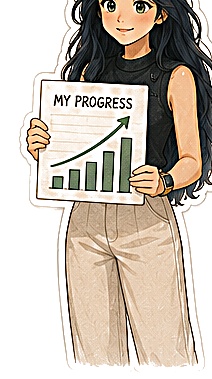
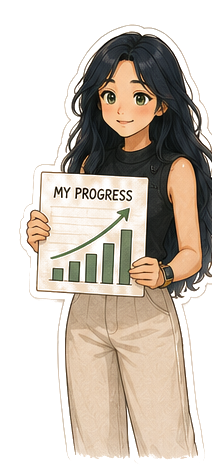
Polish 7-Day card sticker positioning per day, without changing the design
- Global fix: all card content (badge, title, progress bar, remaining
  time) now renders in its own stacking context above the character
  sticker (.day-card > *:not(.day-card-sticker) gets z-index:10 vs the
  sticker's z-index:5), so status badges/titles/progress info can never
  be visually covered by the character regardless of how much the
  sticker overlaps - satisfies the 'never cover important info' rule
  for every day, including Day 3/4/7 which keep their exact existing
  composition.
- Day 1 and Day 2: added per-day sticker position classes (.day-1,
  .day-2) that nudge the character slightly up/right at every
  breakpoint so the TODAY/PENDING badge sits in clear space next to
  her rather than directly behind her arm/book.
- Day 5 and Day 6: the actual root cause of the 'clipped head' was in
  the source crop itself - day_thinking.png and day_seeing_progress.png
  were cropped with almost no margin above the hairline in the original
  sticker sheet. Re-cropped both with proper headroom (Day 5's crop now
  also includes her thought-bubble). Added a small per-day top offset
  so the extra-tall images still clear the row above at every
  breakpoint.
- All position tweaks are defined per breakpoint (mobile <=480px,
  tablet 600px+, desktop 1024px+, wide desktop 1440px+) rather than one
  fixed position, per the responsiveness requirement.
- Verified: badges are legible on every card at every breakpoint, Day 5
[…]

diff --git a/index.html b/index.html
@@ -632,13 +632,38 @@
             filter: drop-shadow(0 4px 6px rgba(26, 31, 58, 0.12));
         }
 
+        /* Badges, titles, progress bars and remaining-time must always stay
+           above the character sticker so it can never visually cover them. */
+        .day-card > *:not(.day-card-sticker) {
+            position: relative;
+            z-index: 10;
+        }
+
         .day-card-top {
             display: flex;
             justify-content: space-between;
             align-items: flex-start;
             margin-bottom: 0.75rem;
-            position: relative;
-            z-index: 1;
+        }
+
+        /* Per-day fine-tuning so each sticker sits well next to its card's
+           own content (badge/title) instead of one fixed position for all. */
+        .day-card-sticker.day-1 {
+            top: -1.5rem;
+            right: -1.5rem;
+        }
+
+        .day-card-sticker.day-2 {
+            top: -1.5rem;
+            right: -1.75rem;
+        }
+
+        .day-card-sticker.day-5 {
+            top: -1.25rem;
+        }
+
+        .day-card-sticker.day-6 {
+            top: -1.25rem;
         }
 
         .day-number {
@@ -712,6 +737,21 @@
                 width: 74px;
                 top: -1.5rem;
                 right: -0.5rem;
+            }
+
+            .day-card-sticker.day-1 {
+                top: -1.25rem;
+                right: -1.1rem;
+            }
+
+            .day-card-sticker.day-2 {
+                top: -1.25rem;
+                right: -1.35rem;
+            }
+
+            .day-card-sticker.day-5,
+            .day-card-sticker.day-6 {
+                top: -1rem;
             }
         }
 
@@ -1222,6 +1262,21 @@
                 right: -0.85rem;
             }
 
+            .day-card-sticker.day-1 {
+                top: -1.75rem;
+                right: -1.6rem;
+            }
+
+            .day-card-sticker.day-2 {
+                top: -1.75rem;
+                right: -1.9rem;
+            }
+
+            .day-card-sticker.day-5,
+            .day-card-sticker.day-6 {
+                top: -1.4rem;
+            }
+
             .activities-grid {
                 grid-template-columns: repeat(2, 1fr);
                 gap: 1.1rem;
@@ -1272,6 +1327,21 @@
                 right: -0.75rem;
             }
 
+            .day-card-sticker.day-1 {
+                top: -1.6rem;
+                right: -1.5rem;
+            }
+
+            .day-card-sticker.day-2 {
+                top: -1.6rem;
+                right: -1.75rem;
+            }
+
+            .day-card-sticker.day-5,
+            .day-card-sticker.day-6 {
+                top: -1.3rem;
+            }
+
             .activities-grid {
                 gap: 1.25rem;
             }
@@ -1315,6 +1385,21 @@
                 width: 118px;
                 top: -2.1rem;
                 right: -0.9rem;
+            }
+
+            .day-card-sticker.day-1 {
+                top: -1.8rem;
+                right: -1.75rem;
+            }
+
+            .day-card-sticker.day-2 {
+                top: -1.8rem;
+                right: -2rem;
+            }
+
+            .day-card-sticker.day-5,
+            .day-card-sticker.day-6 {
+                top: -1.5rem;
             }
 
             .activity-card-illustration {
@@ -2116,7 +2201,7 @@
                 const remainingText = isCompleted ? 'All done' : `${formatHM(remainingSeconds)} left`;
 
                 card.innerHTML = `
-                    <img class="day-card-sticker" src="${DAY_ILLUSTRATIONS[plan.day]}" alt="">
+                    <img class="day-card-sticker day-${plan.day}" src="${DAY_ILLUSTRATIONS[plan.day]}" alt="">
                     <div class="day-card-top">
                         <div class="day-number">${plan.day}</div>
                         <div class="day-status-badge ${badgeClass}">${badgeText}</div>
